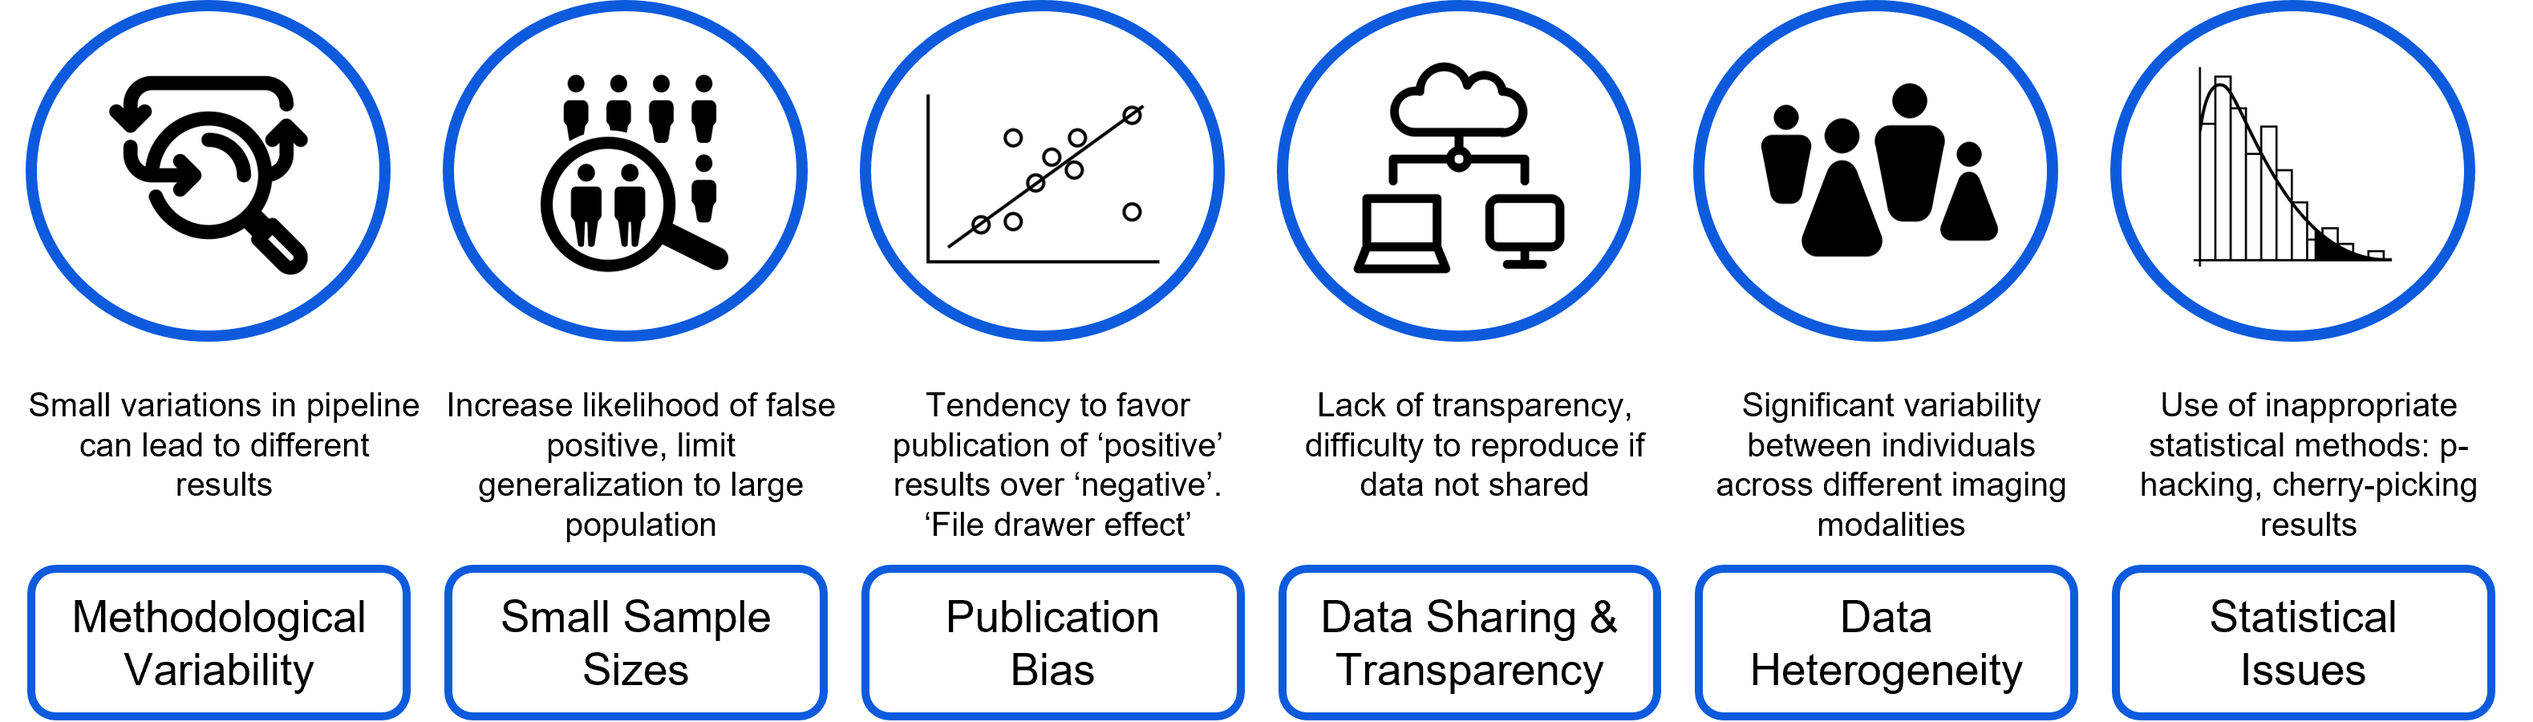
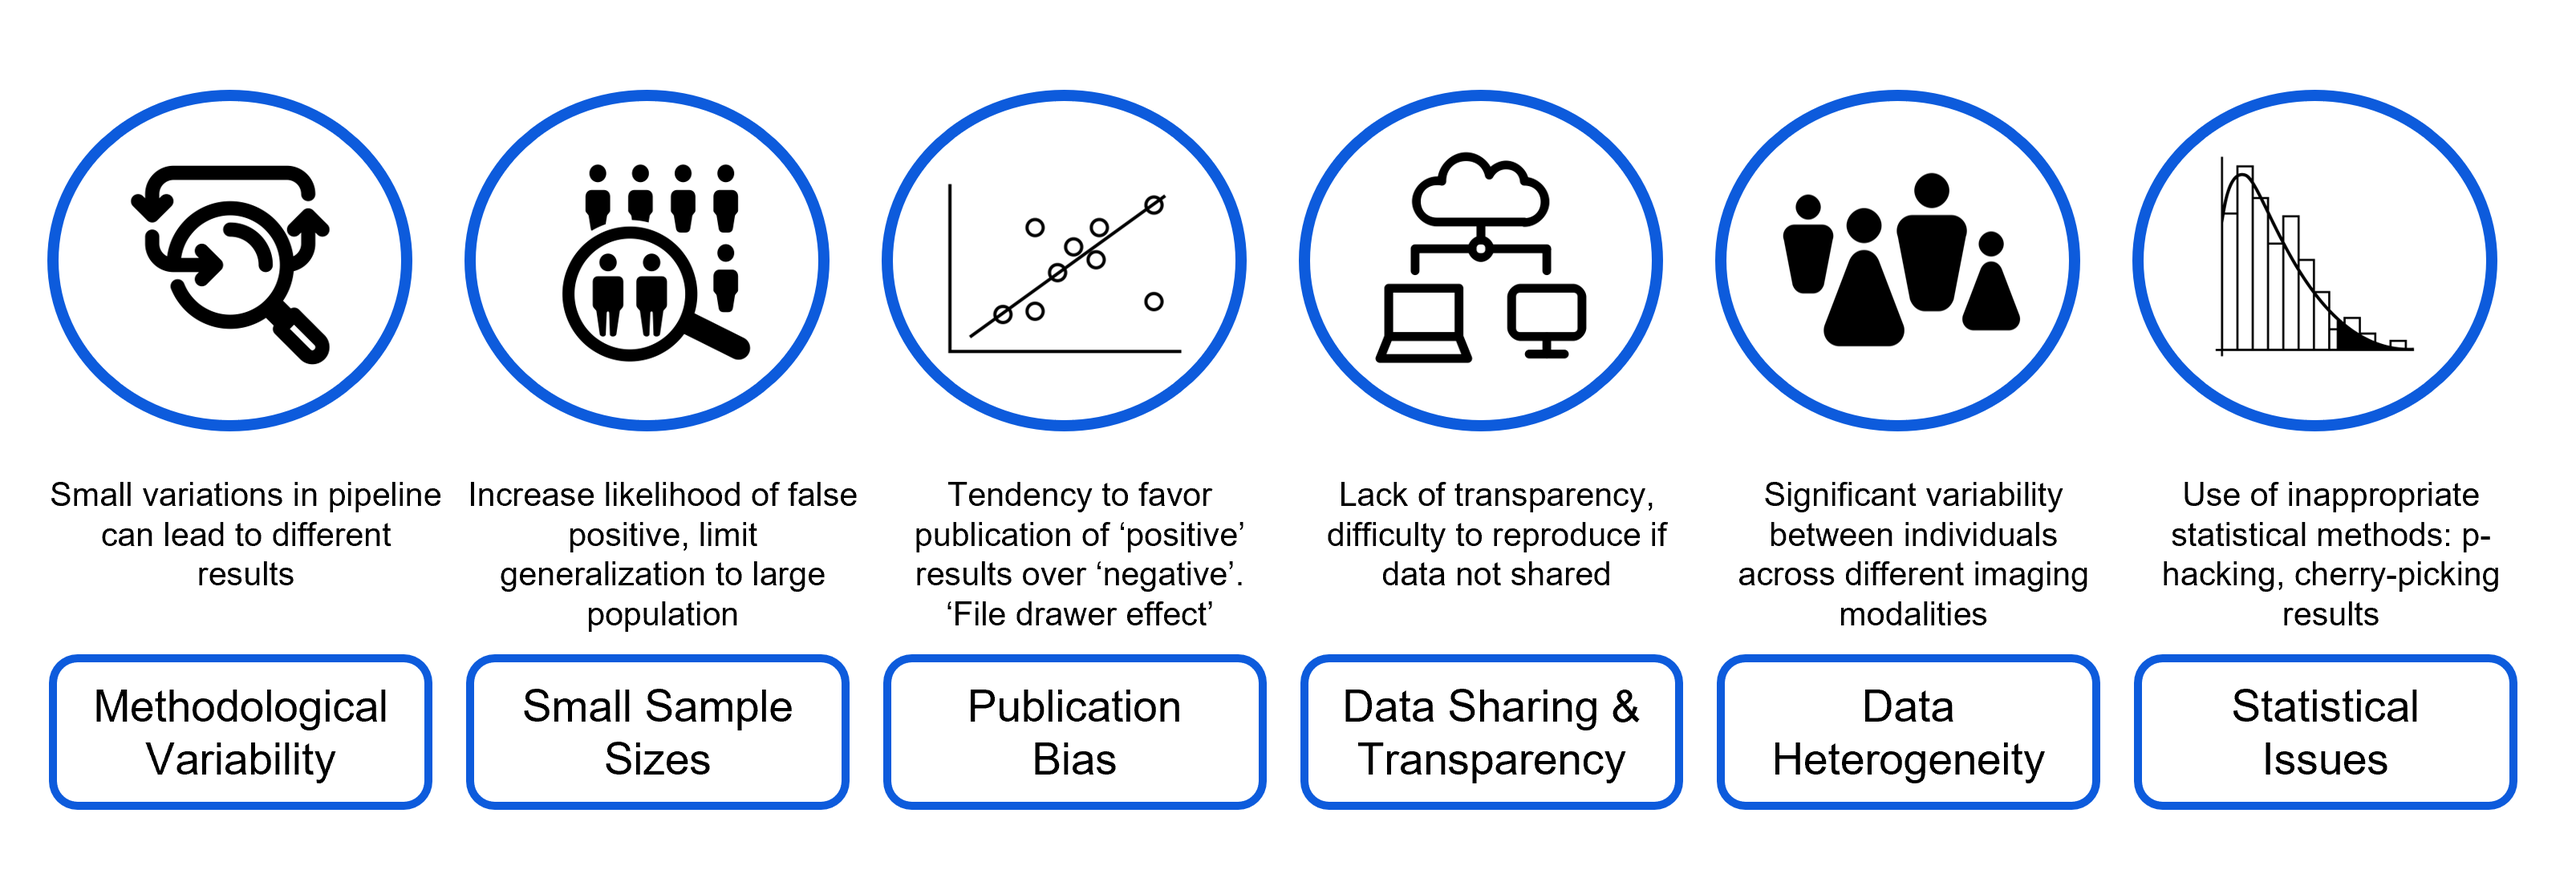
Test change image settings

diff --git a/docs/OpenScience.md b/docs/OpenScience.md
@@ -11,7 +11,7 @@ A lot of barriers exit for Open Science:
 
 
 The 8 pillars of Open Science defined by the European Commission. 
-![pillars](img/OpenSciencePillars.png){width="100"}
+![pillars](img/OpenSciencePillars.png){width=50%}
 
 
 All the datasets released by the consortium must respect the FAIR principles:
